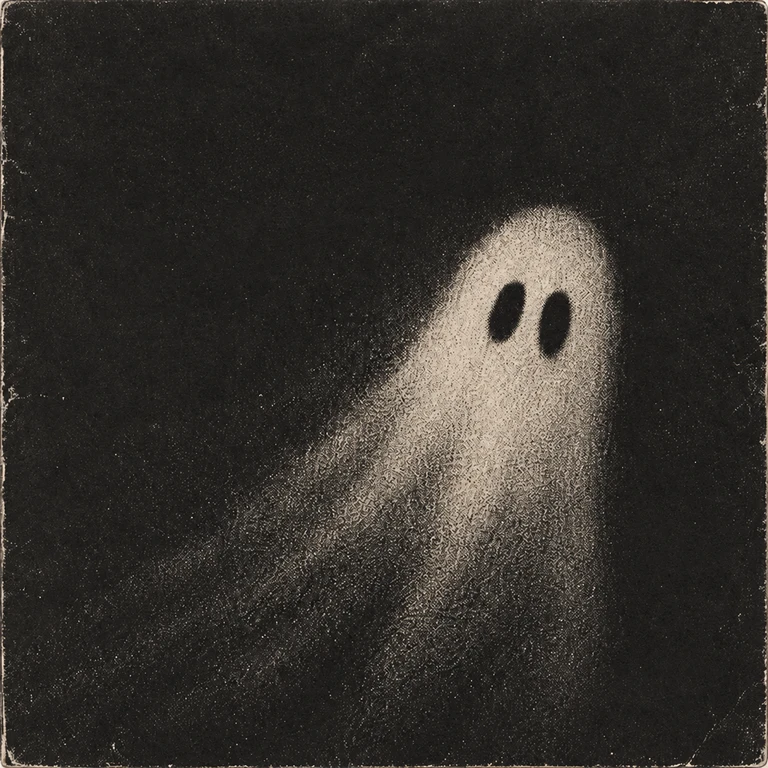
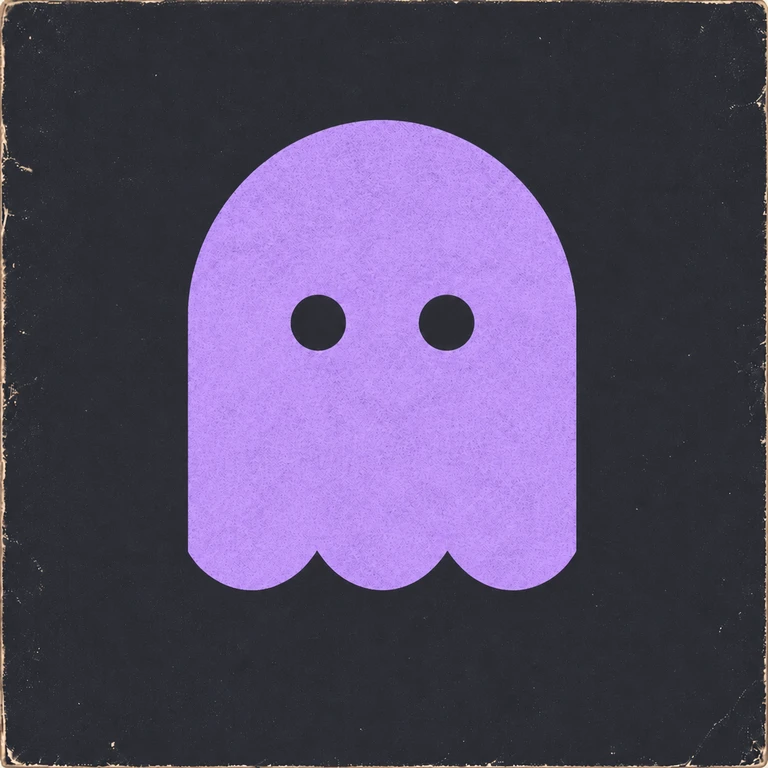
Refresh project record branding and update dependencies

diff --git a/app/project-records.tsx b/app/project-records.tsx
@@ -1,7 +1,7 @@
 "use client";
 
 import Image from "next/image";
-import { useEffect, useRef, useState } from "react";
+import { type CSSProperties, useEffect, useRef, useState } from "react";
 import styles from "./project-records.module.css";
 import { projects } from "./projects";
 import type { RecordScene } from "./record-scene";
@@ -79,7 +79,11 @@ export default function ProjectRecords() {
         <p className="text-base text-gray-500 sm:text-sm">Pick a record.</p>
       </div>
 
-      <div className={styles.collection} data-rendered={rendered}>
+      <div
+        className={styles.collection}
+        data-rendered={rendered}
+        style={{ "--record-count": projects.length } as CSSProperties}
+      >
         <div ref={stage} className={styles.stage} aria-hidden="true">
           <div className={styles.fallback}>
             {projects.map((item, index) => (
@@ -87,10 +91,7 @@ export default function ProjectRecords() {
                 key={item.id}
                 className={styles.flatRecord}
                 data-selected={selected === index}
-                data-position={
-                  ((index - selected + projects.length + 1) % projects.length) -
-                  1
-                }
+                data-position={index - selected}
               >
                 <div className={styles.flatDisc} />
                 <Image
@@ -98,7 +99,7 @@ export default function ProjectRecords() {
                   alt=""
                   width={768}
                   height={768}
-                  sizes="(max-width: 600px) 65vw, 180px"
+                  sizes="(max-width: 600px) 65vw, 232px"
                   loading="eager"
                   unoptimized
                   className={styles.flatSleeve}
@@ -119,9 +120,7 @@ export default function ProjectRecords() {
               className={styles.selector}
               aria-pressed={selected === index}
               aria-controls="project-details"
-              data-position={
-                ((index - selected + projects.length + 1) % projects.length) - 1
-              }
+              data-position={index - selected}
               onClick={() => {
                 if (suppressClick.current) {
                   suppressClick.current = false;

diff --git a/app/project-logos.tsx b/app/project-logos.tsx
@@ -25,34 +25,30 @@ export function BeignetLogo({ className }: ProjectLogoProps) {
       aria-hidden="true"
       className={className}
       focusable="false"
-      viewBox="0 0 24 24"
+      viewBox="0 0 100 100"
     >
-      <g transform="rotate(-9 12 12)">
-        <rect fill="#4f46e5" height="18" rx="6.5" width="18" x="3" y="3" />
-        <path
-          fill="#c7d2fe"
-          d="M3 11 3 9.5 A6.5 6.5 0 0 1 9.5 3 L14.5 3 A6.5 6.5 0 0 1 21 9.5 L21 11 C18.8 12.5 17 10.4 14.9 11.5 13.1 12.5 11.5 10.4 9.5 11.3 7.7 12.2 5 12.4 3 11Z"
-        />
-      </g>
-    </svg>
-  );
-}
-
-export function TenchiLogo({ className }: ProjectLogoProps) {
-  return (
-    <svg
-      aria-hidden="true"
-      className={className}
-      focusable="false"
-      viewBox="-5 -5 74 74"
-    >
-      <rect fill="#047857" height="64" rx="18" width="64" />
-      <g fill="#ecfdf5">
-        <rect height="7" rx="2" width="48" x="8" y="12" />
-        <rect height="33" rx="2" width="7" x="17" y="19" />
-        <rect height="33" rx="2" width="7" x="40" y="19" />
-        <rect height="6" rx="2" width="38" x="13" y="28" />
-      </g>
+      <path
+        d="M28 19C40 15 55 16 68 12C81 8 87 16 89 30L94 65C97 81 87 88 74 89L32 93C17 95 10 86 8 72L5 50C3 35 12 24 28 19Z"
+        fill="#e6a34b"
+      />
+      <path
+        d="M28 19C40 15 55 16 68 12C81 8 87 16 89 30L90 36C82 44 72 40 58 44C40 49 23 59 5 46C5 33 14 24 28 19Z"
+        fill="#fff8e8"
+      />
+      <path
+        d="M28 19C40 15 55 16 68 12C81 8 87 16 89 30L94 65C97 81 87 88 74 89L32 93C17 95 10 86 8 72L5 50C3 35 12 24 28 19Z"
+        fill="none"
+        stroke="#472a22"
+        strokeWidth="4.5"
+        strokeLinejoin="round"
+      />
+      <path
+        d="M47 74L47.5 77M72 70L72.5 73M56 77Q60 81 64 76"
+        fill="none"
+        stroke="#472a22"
+        strokeWidth="3.5"
+        strokeLinecap="round"
+      />
     </svg>
   );
 }

diff --git a/app/record-scene.ts b/app/record-scene.ts
@@ -8,7 +8,7 @@ export type RecordScene = {
   dispose: () => void;
 };
 
-const REST_ANGLES = [-0.055, 0.035, -0.035];
+const REST_ANGLES = [-0.055, 0.035];
 
 /** One shared, on-demand scene; the HTML buttons own all interaction. */
 export async function createRecordScene(
@@ -214,16 +214,15 @@ export async function createRecordScene(
       const active = index === selected;
       const over = index === hovered;
       const restAngle = REST_ANGLES[index] ?? 0;
-      const position =
-        ((index - selected + records.length + 1) % records.length) - 1;
+      const position = index - selected;
       const x = narrow
         ? active
           ? -0.52
           : position * 2.6 - 0.18
-        : (index - 1) * 3.15 -
+        : (index - (records.length - 1) / 2) * 3.15 -
           0.3 +
           (index > selected ? 0.2 : 0) -
-          (active && index === 2 ? 0.2 : 0);
+          (active && index === records.length - 1 ? 0.2 : 0);
       const y = narrow
         ? active
           ? 0.1
@@ -286,7 +285,9 @@ export async function createRecordScene(
     narrow =
       getComputedStyle(host).getPropertyValue("--record-layout").trim() ===
       "compact";
-    const viewWidth = narrow ? Math.max(5.5, (width / height) * 3.5) : 9.9;
+    const viewWidth = narrow
+      ? Math.max(5.5, (width / height) * 3.5)
+      : records.length * 3.15 + 0.45;
     const viewHeight = (height / width) * viewWidth;
     camera.left = -viewWidth / 2;
     camera.right = viewWidth / 2;

diff --git a/app/projects.ts b/app/projects.ts
@@ -7,17 +7,7 @@ export const projects = [
       "A simple productivity app for organizing notes, tasks, and ideas in one place.",
     href: "https://haunter.app",
     artwork: "/records/haunter-text-free.webp",
-    color: "#272723",
-  },
-  {
-    id: "tenchi",
-    name: "Tenchi",
-    status: "Alpha",
-    description:
-      "A small, contract-first Python framework for building typed APIs with async functions.",
-    href: "https://tenchi.io",
-    artwork: "/records/tenchi-text-free.webp",
-    color: "#123d32",
+    color: "#282a36",
   },
   {
     id: "beignet",
@@ -27,7 +17,7 @@ export const projects = [
       "A contract-first TypeScript framework for building production-ready web applications.",
     href: "https://beignetjs.com",
     artwork: "/records/beignet-text-free.webp",
-    color: "#333b62",
+    color: "#3c2822",
   },
 ] as const;
 

diff --git a/app/project-records.module.css b/app/project-records.module.css
@@ -22,7 +22,7 @@
   position: absolute;
   inset: 0;
   display: grid;
-  grid-template-columns: repeat(3, minmax(0, 1fr));
+  grid-template-columns: repeat(var(--record-count), minmax(0, 1fr));
   align-items: center;
   gap: 20px;
   padding: 12px 28px 0 4px;
@@ -35,15 +35,13 @@
 .flatRecord {
   --record-angle: -3deg;
   position: relative;
+  width: min(100%, 232px);
+  justify-self: center;
   transform: rotate(var(--record-angle));
 }
 
 .flatRecord:nth-child(2) {
   --record-angle: 2deg;
-}
-
-.flatRecord:nth-child(3) {
-  --record-angle: -2deg;
 }
 
 .flatSleeve {
@@ -69,7 +67,7 @@
   position: absolute;
   inset: 16px 0 24px;
   display: grid;
-  grid-template-columns: repeat(3, minmax(0, 1fr));
+  grid-template-columns: repeat(var(--record-count), minmax(0, 1fr));
   gap: 8px;
 }
 

diff --git a/design/haunter-record.md b/design/haunter-record.md
@@ -1,0 +1,23 @@
+# Haunter record artwork
+
+- Asset: `public/records/haunter-text-free.webp` (768 × 768, WebP quality 90).
+- Generated with the built-in imagegen tool on November 8, 2026.
+- Brand reference: the ghost mark on [Haunter's live website](https://haunter.app/),
+  matching `components/ghost-logo.tsx` and `app/icon.svg` in the Haunter repository.
+- Palette: the [guides page's Dracula theme](https://www.haunter.app/guides),
+  charcoal `#282a36` and the primary lavender accent `#bd93f9` for the ghost.
+  The paper edge retains its aged cream color.
+- Inputs: the previous Haunter sleeve (edit target), a rendering of the actual
+  ghost mark (brand reference), and the updated Beignet sleeve (style reference).
+
+## Initial prompt
+
+Use case: precise-object-edit. Asset type: square vinyl record sleeve texture for a personal portfolio website. Image 1 is the EDIT TARGET: the existing Haunter sleeve. Image 2 is the authoritative Haunter brand reference: its exact simple upright rounded ghost mark in off-white on dark charcoal. Image 3 is the updated Beignet sleeve, a STYLE REFERENCE only. Replace the blurry diagonal ghost in Image 1 with the exact crisp Haunter silhouette from Image 2: symmetrical rounded dome, straight vertical sides, three rounded scallops along the bottom, two small perfectly round eyes horizontally aligned, no mouth, no arms, no tail. Preserve the reference mark proportions exactly. Center one upright ghost, fully visible, occupying around 60 percent of sleeve width and 70 percent of height, with generous balanced negative space. Use Haunter's dark charcoal #282a36 background and off-white #f8f8f2 printed ghost. Match the warm subtly aged physical paper, faded screen printing, fine grain, small scuffs, and worn cream edges of the record collection, especially Image 3. The silhouette stays clearly readable at thumbnail size and its outlines stay defined; texture should feel like worn ink on paper, not motion blur or smoke. Keep square edge-to-edge front-cover artwork, straight-on flat view. No words, lettering, numbers, typography, extra shapes, symbols, stickers, props, vinyl discs, external background, perspective, gradients, glows, shadows, or additional characters. Output one square sleeve.
+
+## Background color adjustment prompt
+
+Use case: precise-object-edit. Image 1 is the edit target, the approved Haunter record sleeve. Change ONLY the dark printed ink background and the two circular eye cutouts to Dracula's canonical background color #282a36 (RGB 40,42,54): a distinctly cool blue-gray charcoal with a subtle purple cast. The large dark background regions must read as that exact blue-gray, clearly less neutral black and less warm brown than the source. Use the flat blue-gray background of Image 2 as the authoritative color swatch only. Preserve Image 1's existing ghost outline, size, exact eye size and placement, centered composition, ghost's cream printed ink, paper grain, scratches, scuffs, edge wear, and all other details unchanged. Keep the background's worn ink texture but shift its base hue to #282a36 without adding shadow, vignette, glow, gradients, new shapes, new distress, or text. Do not copy the ghost from Image 2 or alter the ghost in Image 1. Output the same square flat sleeve artwork, no external background.
+
+## Final ghost color adjustment prompt
+
+Use case: precise-object-edit. Image 1 is the EDIT TARGET: the approved worn Haunter record sleeve with a cream ghost on a Dracula blue-gray background. Image 2 is a COLOR REFERENCE ONLY showing Dracula lavender #bd93f9 against background #282a36. Change ONLY the cream ink INSIDE THE GHOST SILHOUETTE in Image 1 to Dracula's lavender-purple primary accent #bd93f9 (RGB 189,147,249), matching Image 2. It should read clearly as lavender-purple, not pale beige or pink, while retaining the existing fine grain and lightly worn screen-printed ink texture. Preserve Image 1's current ghost outline, proportions, size, centered position, circular eye cutouts, and scalloped base EXACTLY. Preserve the existing dark blue-gray #282a36 background and eye cutouts, all scuffs, all scratches, cream worn paper border, composition, and paper texture unchanged. No glow, shadow, gradient, vignette, new elements, lettering, typography, or other changes. Do not replace the ghost with Image 2's larger rendering; use that image only for its two flat brand colors. Output the same square sleeve.

diff --git a/design/beignet-record.md b/design/beignet-record.md
@@ -1,0 +1,13 @@
+# Beignet record artwork
+
+- Asset: `public/records/beignet-text-free.webp` (768 × 768, WebP quality 90).
+- Generated with the built-in imagegen tool on November 8, 2026.
+- Brand reference: the Happy Puff mascot and warm palette on
+  [Beignet's live website](https://www.beignetjs.com/), matching the
+  `codex/docs-branding-dependencies` branch in the Beignet repository.
+- Inputs: the previous Beignet sleeve (edit target), a rendering of the new
+  `apps/docs/app/icon.svg` (brand reference), and the Haunter sleeve (style reference).
+
+## Final prompt
+
+Use case: precise-object-edit. Asset type: square vinyl record sleeve texture for a personal portfolio website. Image 1 is the EDIT TARGET: the existing Beignet record sleeve. Image 2 is the authoritative NEW Beignet branding mascot, the Happy Puff golden pastry with a cream sugar cap and little smiling face. Image 3 is a sibling record sleeve and STYLE REFERENCE only. Update Image 1 for the new branding: replace the old purple abstract forms with ONE large recognizable rendition of the exact Happy Puff mascot from Image 2. Preserve its distinctive irregular softly rounded tilted quadrilateral silhouette, wavy cream cap, dark brown outline, two short rounded eye strokes and small smile, with same proportions as logo reference. Use flat printed golden ochre #e6a34b and warm ivory #fff8e8 with dark brown #472a22; background rich warm chocolate #3c2822 instead of navy. Center mascot occupying about 68 percent of sleeve width, fully visible with generous surrounding negative space. Keep vintage screen-printed 1970s independent record art feel with paper grain, slightly faded ink, worn cream corners and scuffed edges consistent with Image 1 and Image 3. Keep square edge-to-edge front-cover composition, flat straight-on view, no perspective, no vinyl or props, no external background. All artwork is flat ink with authentic aging, not 3D, no gradients or glows. No text, letters, numbers, typography, stickers, extra shapes, or additional characters. Output one square cover.
